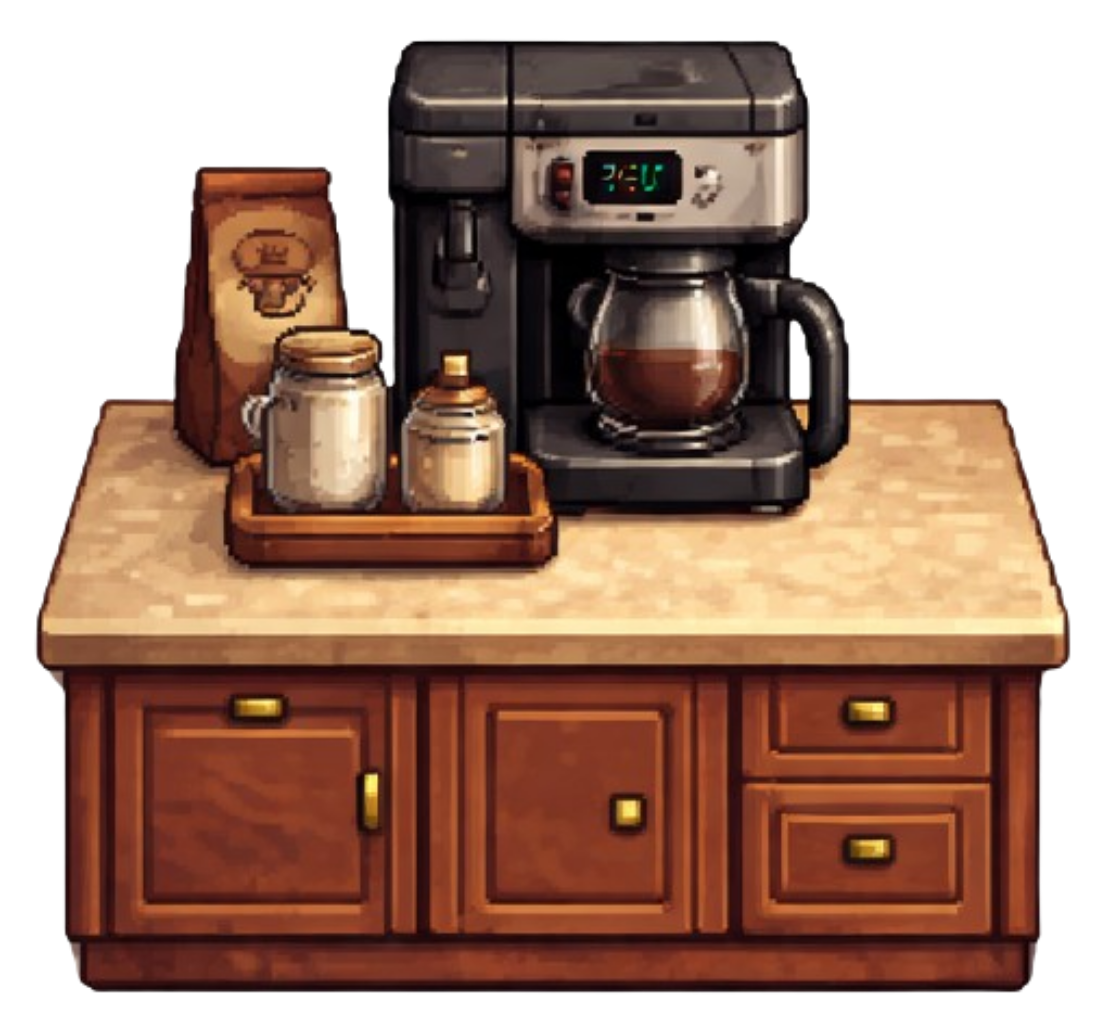
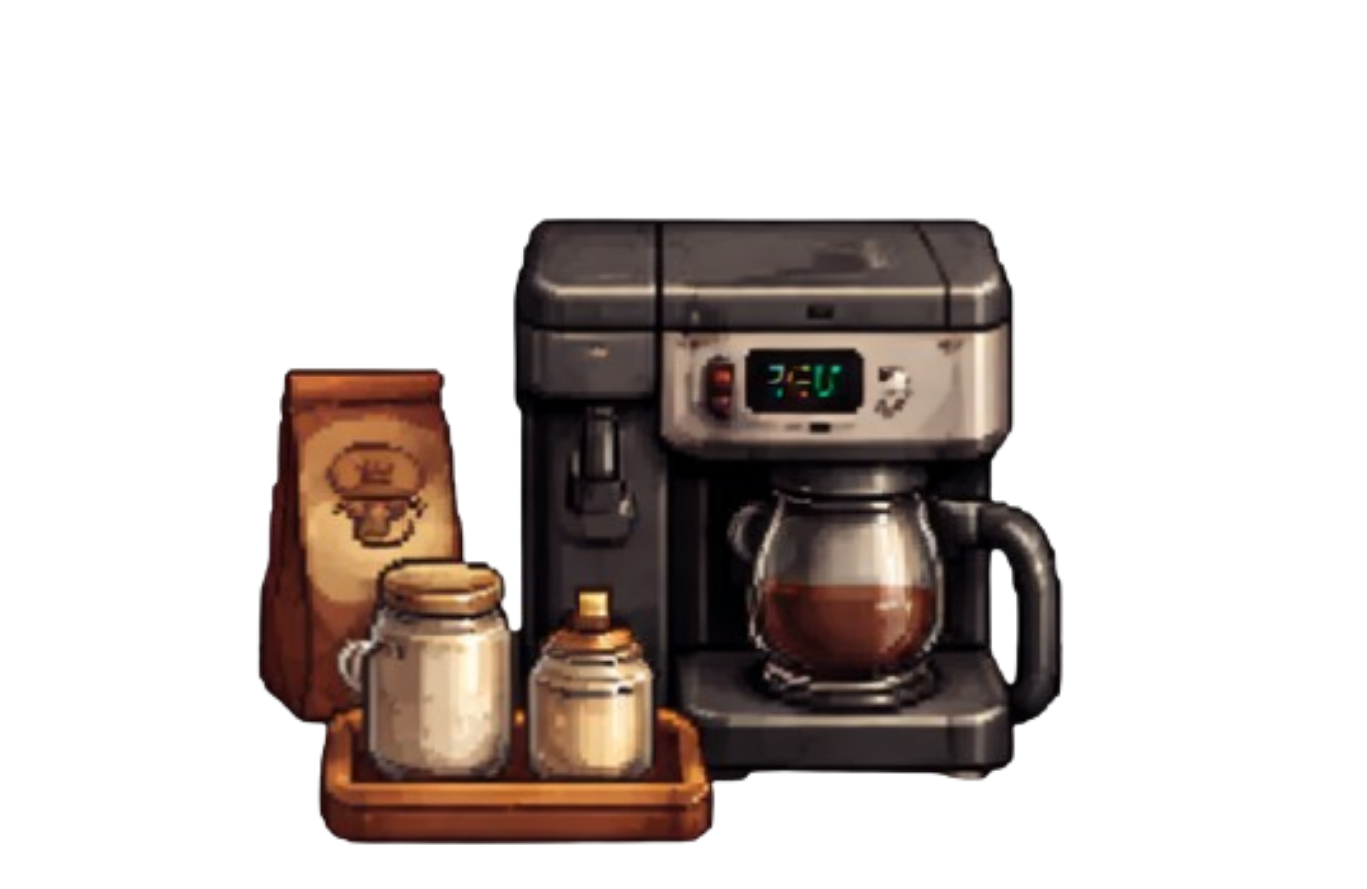
added objects and collision and like 20 small things...

diff --git a/Main.py b/Main.py
@@ -1,7 +1,7 @@
 import pygame
 
-WIDTH = 1300
-HEIGHT = 800
+WIDTH = 1000
+HEIGHT = 700
 
 pygame.init()
 screen = pygame.display.set_mode((WIDTH, HEIGHT))
@@ -31,14 +31,87 @@ walk_left = [pygame.transform.scale(pygame.image.load("assets/character/MC_LEFT3
 walk_right = [pygame.transform.scale(pygame.image.load("assets/character/MC_RIGHT3.png"), (225, 275)),
               pygame.transform.scale(pygame.image.load("assets/character/MC_RIGHT4.png"), (225, 275))]
 
-# objects
+# Objects
 trashcan = pygame.transform.scale(pygame.image.load("assets/objects/zafacon_lol.png"), (70, 70))
-order_slide = pygame.transform.scale(pygame.image.load("assets/objects/orderslide.png"), (1000, 100))
+order_slide = pygame.transform.scale(pygame.image.load("assets/objects/orderslide.png"), (1015, 80))
 computer = pygame.transform.scale(pygame.image.load("assets/objects/computer.png"), (75, 75))
-coffee_machine = pygame.transform.scale(pygame.image.load("assets/objects/coffee_machine.png"), (200, 200))
-coffee_grinder = pygame.transform.scale(pygame.image.load("assets/objects/coffee_grinder.png"), (200, 200))
+counters = pygame.transform.scale(pygame.image.load("assets/objects/counters.png"), (800, 260))
+pastries = pygame.transform.scale(pygame.image.load("assets/objects/pastries.png"), (200, 220))
+verjas = pygame.transform.scale(pygame.image.load("assets/objects/verjitas.png"), (200, 100))
 
-character_rect = idle_down[0].get_rect(center=(WIDTH // 2, HEIGHT // 2))
+coffee_grinder = pygame.transform.scale(pygame.image.load("assets/objects/grinder.png"), (200, 140))
+coffee_machine = pygame.transform.scale(pygame.image.load("assets/objects/coffee_machine.png"), (200, 140))
+drink_station = pygame.transform.scale(pygame.image.load("assets/objects/drinkprep.png"), (200, 140))
+
+trashcan_rect = pygame.Rect(
+    trashcan.get_rect(topleft=(950, 620)).x,
+    trashcan.get_rect(topleft=(950, 620)).y,
+    trashcan.get_width(),
+    trashcan.get_height() // 4
+).inflate(-40, -20)
+
+order_slide_rect = pygame.Rect(
+    order_slide.get_rect(topleft=(-5, 25)).x,
+    order_slide.get_rect(topleft=(-5, 25)).y,
+    order_slide.get_width(),
+    order_slide.get_height() // 2
+).inflate(-40, -20)
+
+computer_rect = pygame.Rect(
+    computer.get_rect(topleft=(850, 280)).x,
+    computer.get_rect(topleft=(850, 280)).y,
+    computer.get_width(),
+    computer.get_height() // 4
+).inflate(-20, -10)
+
+counters_rect = pygame.Rect(
+    counters.get_rect(topleft=(160, 250)).x,
+    counters.get_rect(topleft=(160, 270)).y,
+    counters.get_width(),
+    counters.get_height() // 4
+).inflate(-20, -10)
+
+pastries_rect = pygame.Rect(
+    pastries.get_rect(topleft=(-15, 300)).x,
+    pastries.get_rect(topleft=(-15, 518)).y,
+    pastries.get_width() // 1.3,
+    pastries.get_height()
+).inflate(-20, -10)
+
+verjas_rect = pygame.Rect(
+    verjas.get_rect(topleft=(-5, 370)).x,
+    verjas.get_rect(topleft=(-5, 370)).y,
+    verjas.get_width() // 1.2,
+    verjas.get_height() // 8
+).inflate(-20, -10)
+
+grinder_rec = pygame.Rect(
+    coffee_grinder.get_rect(topleft=(780, 220)).x,
+    coffee_grinder.get_rect(topleft=(670, 205)).y,
+    coffee_grinder.get_width(),
+    coffee_grinder.get_height()
+).inflate(-20, -10)
+
+coffee_machine_rect = pygame.Rect(
+    coffee_machine.get_rect(topleft=(620, 240)).x,
+    coffee_machine.get_rect(topleft=(620, 200)).y,
+    coffee_machine.get_width(),
+    coffee_machine.get_height()
+).inflate(-20, -10)
+
+drink_station_rect = pygame.Rect(
+    drink_station.get_rect(topleft=(400, 240)).x,
+    drink_station.get_rect(topleft=(400, 200)).y,
+    drink_station.get_width(),
+    drink_station.get_height()
+).inflate(-20, -10)
+
+character_rect = idle_down[0].get_rect(center=(WIDTH // 2, HEIGHT // 1.4)).inflate(-80, -150)
+
+# List of object rectangles for collision detection
+object_rects = [drink_station_rect, coffee_machine_rect, grinder_rec, computer_rect, trashcan_rect,
+                order_slide_rect, counters_rect, pastries_rect, verjas_rect]
+
 speed = 5
 animation_timer = 0
 idle_animation_timer = 0
@@ -54,26 +127,36 @@ while running:
     keys = pygame.key.get_pressed()
 
     moving = False
+    new_rect = character_rect.copy()
+
     if keys[pygame.K_w] or keys[pygame.K_UP]:  # Move up
-        character_rect.y -= speed
+        new_rect.y -= speed
         current_animation = walk_up
         direction = "up"
         moving = True
     if keys[pygame.K_s] or keys[pygame.K_DOWN]:  # Move down
-        character_rect.y += speed
+        new_rect.y += speed
         current_animation = walk_down
         direction = "down"
         moving = True
     if keys[pygame.K_a] or keys[pygame.K_LEFT]:  # Move left
-        character_rect.x -= speed
+        new_rect.x -= speed
         current_animation = walk_left
         direction = "left"
         moving = True
     if keys[pygame.K_d] or keys[pygame.K_RIGHT]:  # Move right
-        character_rect.x += speed
+        new_rect.x += speed
         current_animation = walk_right
         direction = "right"
         moving = True
+
+    # Check for collisions with objects
+    if not any(new_rect.colliderect(obj) for obj in object_rects):
+        character_rect = new_rect
+
+    # World borders
+    character_rect.x = max(0, min(character_rect.x, WIDTH - character_rect.width))
+    character_rect.y = max(0, min(character_rect.y, HEIGHT - character_rect.height))
 
     if not moving:
         if direction == "up":
@@ -89,22 +172,27 @@ while running:
         if idle_animation_timer > 500:
             current_frame = (current_frame + 1) % len(current_animation)
             idle_animation_timer = 0
-    
     else:
         animation_timer += clock.get_time()
         if animation_timer > 200:
             current_frame = (current_frame + 1) % len(current_animation)
             animation_timer = 0
 
+    # Draw everything
     screen.blit(background, (0, 0))
 
-    screen.blit(trashcan, (1215, 720)) 
-    screen.blit(order_slide, (-5, 25))
-    screen.blit(computer, (1100, 350)) 
-    screen.blit(coffee_machine, (200, 300))
-    screen.blit(coffee_grinder, (400, 300))
+    screen.blit(verjas, (-5, 370))
+    screen.blit(trashcan, (900, 620))
+    screen.blit(order_slide, (-5, 30))
+    screen.blit(counters, (160, 250))
+    screen.blit(computer, (850, 300))
+    screen.blit(pastries, (-15, 500))
 
-    screen.blit(current_animation[current_frame], character_rect)
+    screen.blit(coffee_grinder, (680, 260))
+    screen.blit(coffee_machine, (535, 240))
+    screen.blit(drink_station, (360, 240))
+
+    screen.blit(current_animation[current_frame], character_rect.inflate(100, 100).topleft)
 
     pygame.display.flip()
     clock.tick(60)
